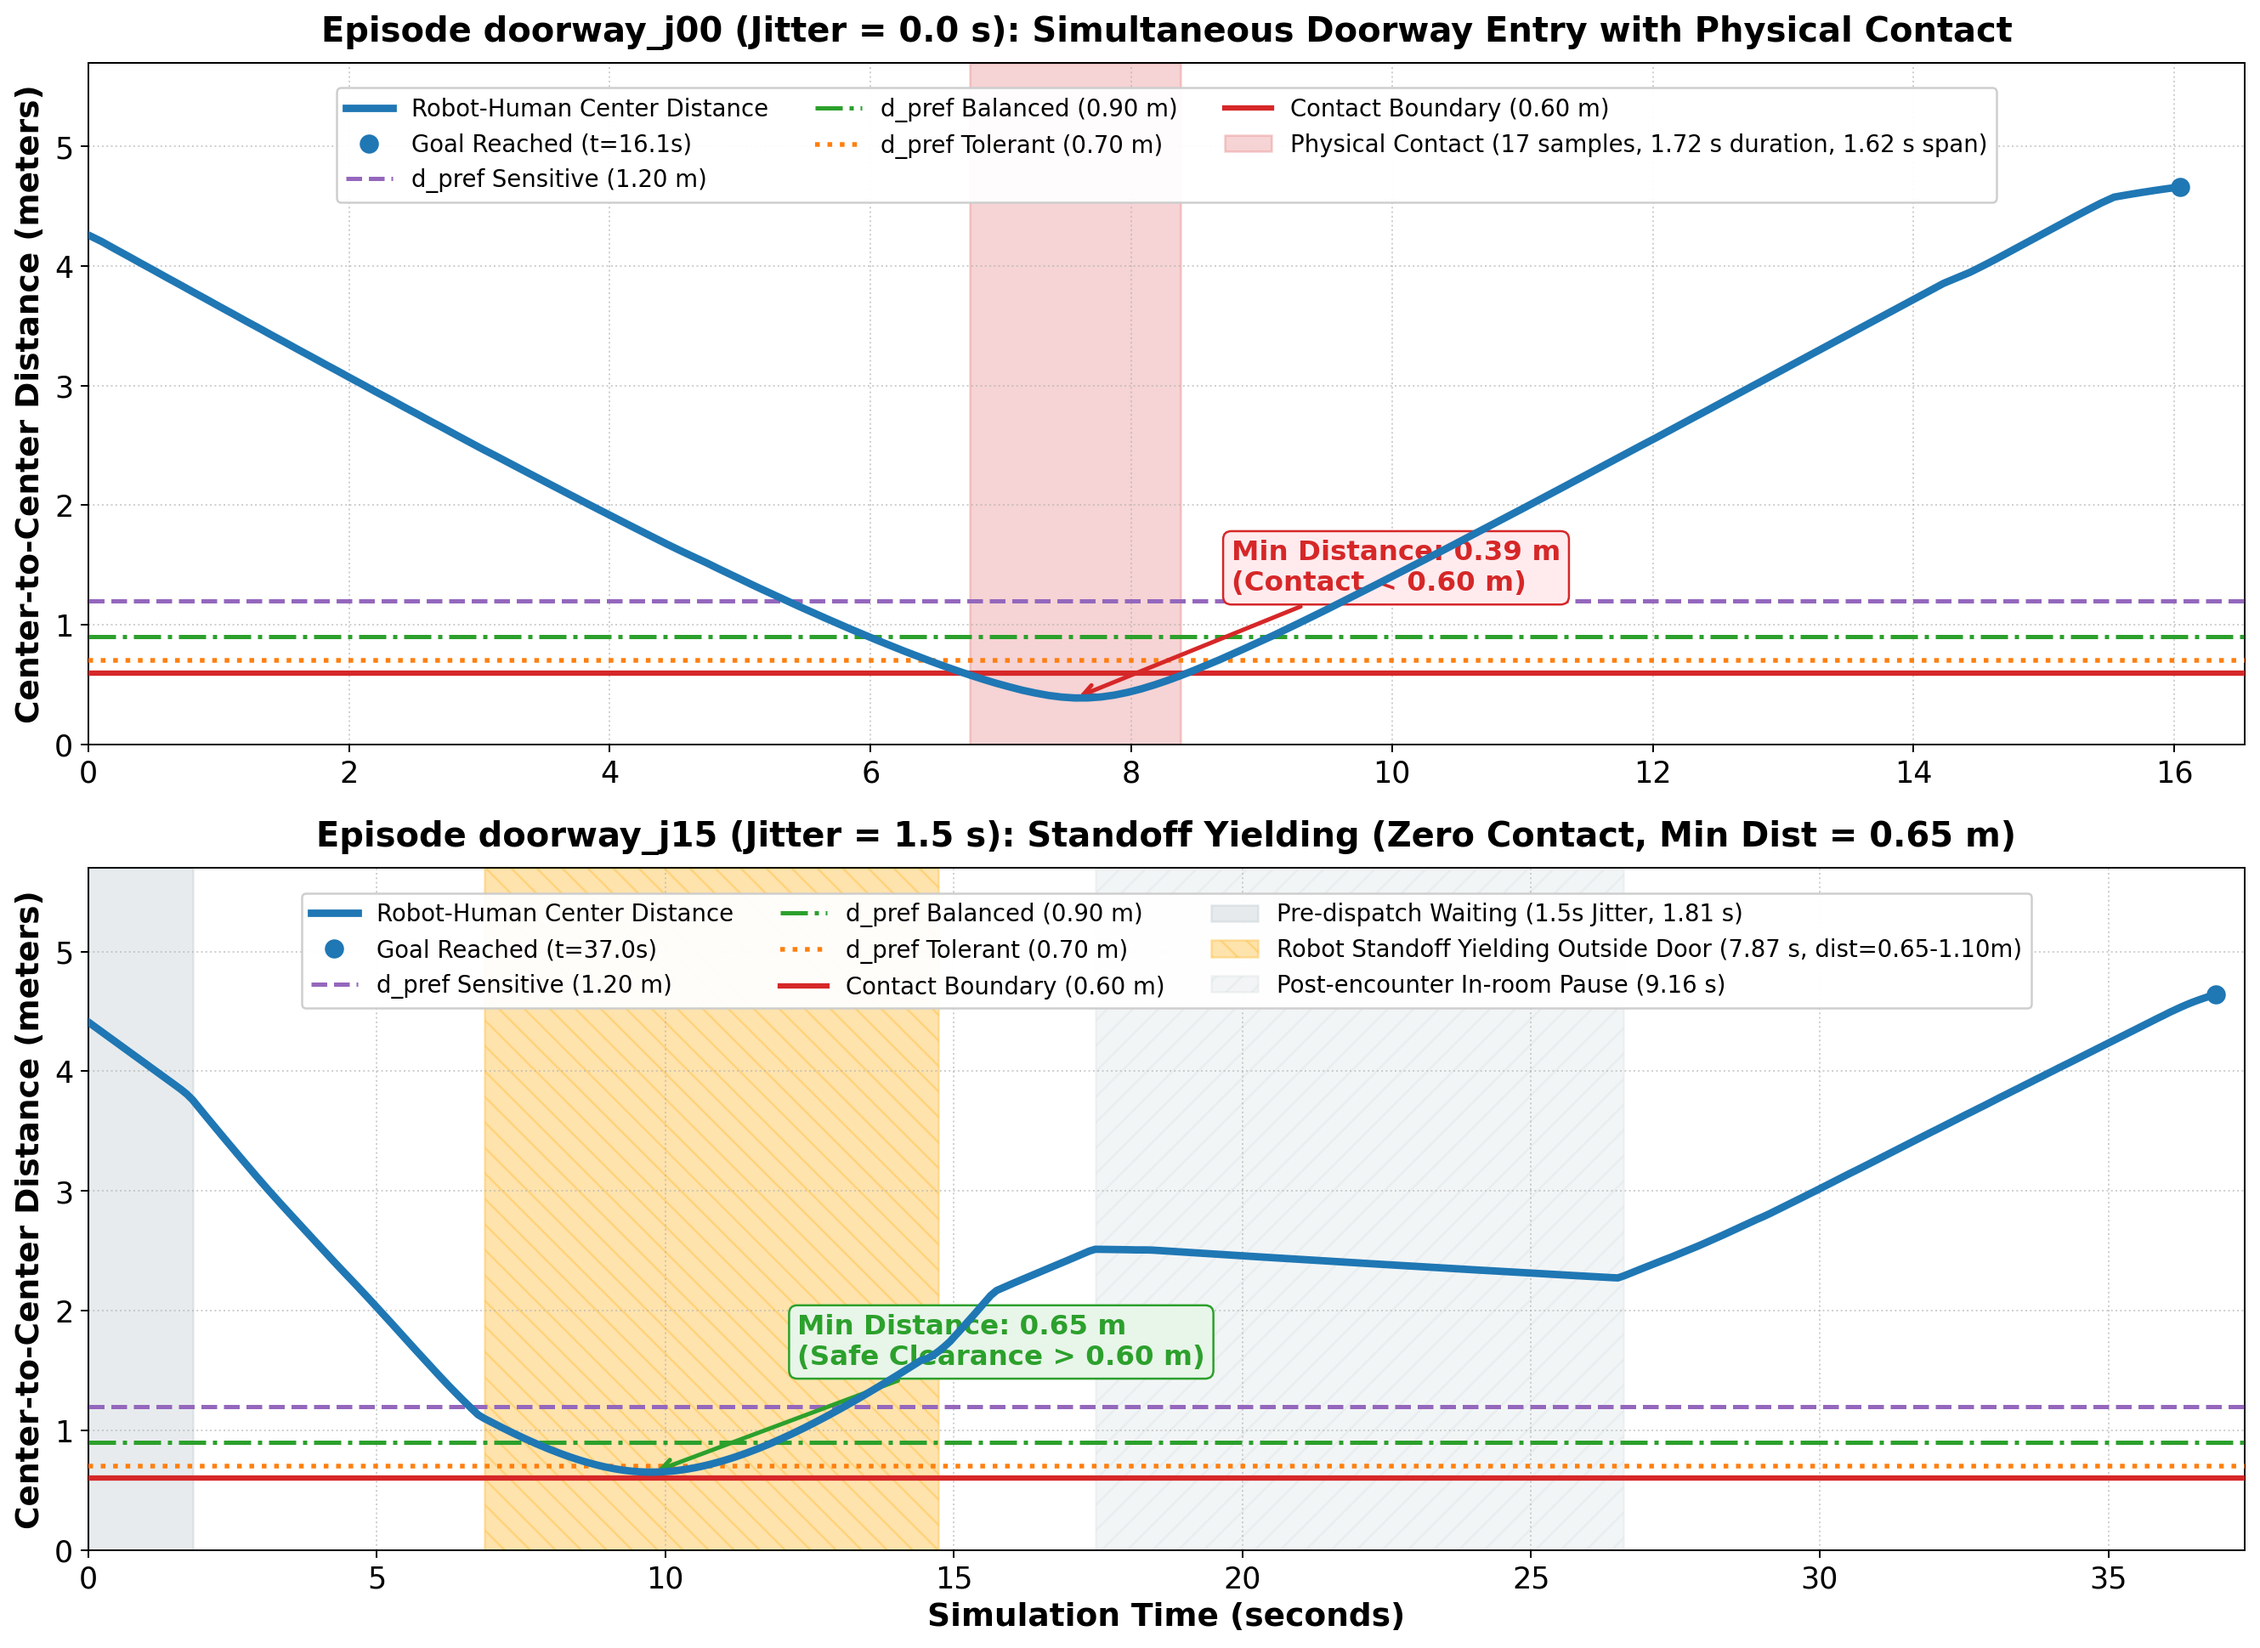
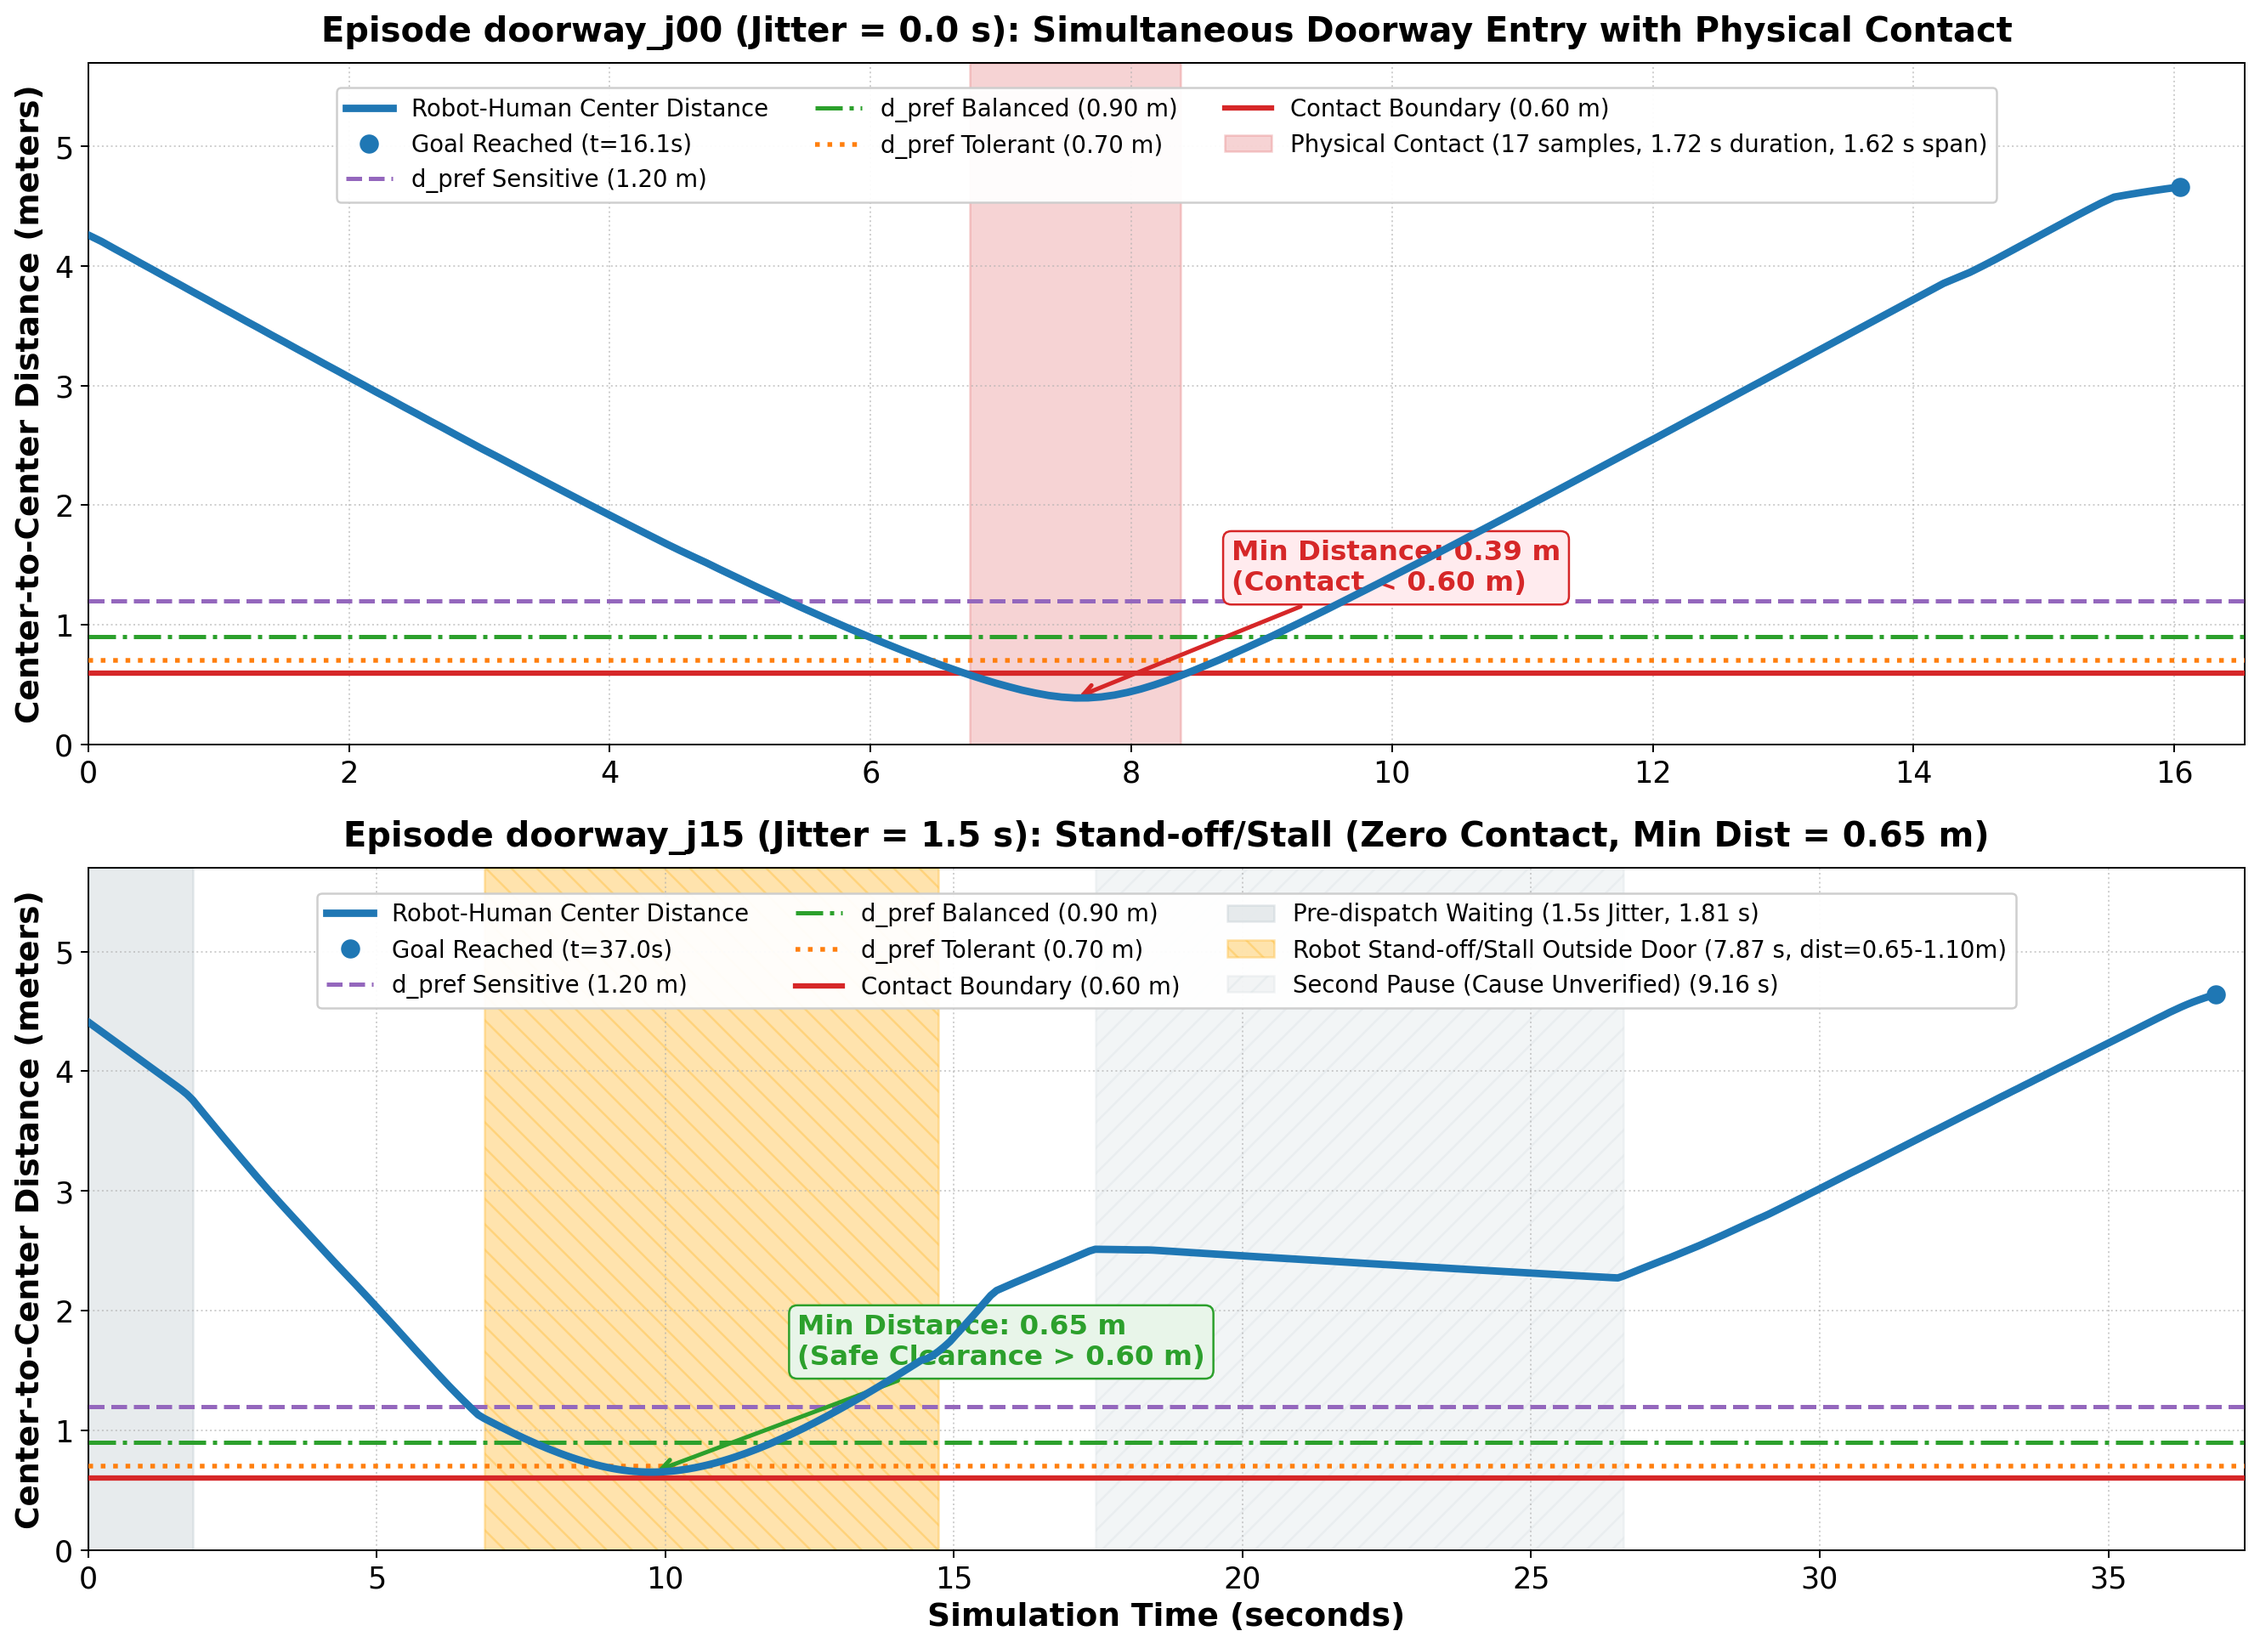
fix(presentation): relabel doorway_j15 to stand-off/stall, add second pause note, and add 10-episode timing query script

Changed region(s): [[0.1249, 0.4951, 0.9052, 0.6189]]

diff --git a/gazebo_workspace/query_timings.py b/gazebo_workspace/query_timings.py
@@ -1,0 +1,38 @@
+#!/usr/bin/env python3
+import os
+import json
+import math
+
+RES_DIR = '/home/thevindu/SocialGym2/gazebo_workspace/evaluation_results'
+scenarios = ['corridor', 'doorway']
+jitters = ['j00', 'j05', 'j10', 'j15', 'j20']
+
+print("=" * 95)
+print(f"{'Episode':<15} | {'Log Start (sim s)':<18} | {'Departure (sim s)':<18} | {'Rel Dep (s)':<12} | {'Human x (m)':<12} | {'Human y (m)':<12}")
+print("=" * 95)
+
+for sc in scenarios:
+    for jt in jitters:
+        ep_name = f"{sc}_{jt}"
+        fn = os.path.join(RES_DIR, f"trajectory_{sc}_robot_present_{ep_name}.json")
+        with open(fn) as fp:
+            d = json.load(fp)
+        samps = d['samples']
+        t_log_start = samps[0]['t']
+
+        dep_sample = None
+        for s in samps:
+            rvx, rvy = s['robot_vel']
+            if math.hypot(rvx, rvy) > 0.05:
+                dep_sample = s
+                break
+
+        if dep_sample is not None:
+            t_dep_sim = dep_sample['t']
+            t_dep_rel = t_dep_sim - t_log_start
+            hx = dep_sample['human_states']['agent1']['pos'][0]
+            hy = dep_sample['human_states']['agent1']['pos'][1]
+            print(f"{ep_name:<15} | {t_log_start:18.3f} | {t_dep_sim:18.3f} | {t_dep_rel:12.3f} | {hx:12.3f} | {hy:12.3f}")
+        else:
+            print(f"{ep_name:<15} | {t_log_start:18.3f} | {'N/A':<18} | {'N/A':<12} | {'N/A':<12} | {'N/A':<12}")
+print("=" * 95)

diff --git a/gazebo_workspace/generate_presentation_figures.py b/gazebo_workspace/generate_presentation_figures.py
@@ -187,15 +187,15 @@ def generate_figure_2b():
     ax2.axvspan(0.0, 1.81, color='#b0bec5', alpha=0.30,
                 label='Pre-dispatch Waiting (1.5s Jitter, 1.81 s)')
 
-    # 6.86 - 14.73s: True Standoff Yielding outside doorway
+    # 6.86 - 14.73s: Stand-off/Stall outside doorway
     ax2.axvspan(6.86, 14.73, color='#ffbb33', alpha=0.40, hatch='\\\\',
-                label='Robot Standoff Yielding Outside Door (7.87 s, dist=0.65-1.10m)')
+                label='Robot Stand-off/Stall Outside Door (7.87 s, dist=0.65-1.10m)')
 
-    # 17.45 - 26.60s: Post-encounter wait inside room / near goal
+    # 17.45 - 26.60s: Second pause (cause unverified)
     ax2.axvspan(17.45, 26.60, color='#cfd8dc', alpha=0.25, hatch='//',
-                label='Post-encounter In-room Pause (9.16 s)')
+                label='Second Pause (Cause Unverified) (9.16 s)')
 
-    ax2.set_title('Episode doorway_j15 (Jitter = 1.5 s): Standoff Yielding (Zero Contact, Min Dist = 0.65 m)',
+    ax2.set_title('Episode doorway_j15 (Jitter = 1.5 s): Stand-off/Stall (Zero Contact, Min Dist = 0.65 m)',
                   fontsize=16, fontweight='bold', pad=10)
     ax2.set_xlabel('Simulation Time (seconds)', fontsize=15, fontweight='bold')
     ax2.set_ylabel('Center-to-Center Distance (meters)', fontsize=15, fontweight='bold')

diff --git a/gazebo_workspace/evaluation_results/batch_evaluation_report.md b/gazebo_workspace/evaluation_results/batch_evaluation_report.md
@@ -34,19 +34,31 @@
   - Because trajectory logging begins after AMCL settling ($t \approx 1.7 - 2.2\text{ s}$ sim time), Sample 0 records the human after it has already traveled $\sim 0.8\text{ m}$:
     - `corridor_j00`: Sample 0 at $t = 2.20\text{ s}$, Human at **$(8.123, 0.000)$**, initial center-to-center distance $= 17.12\text{ m}$.
     - `corridor_j05` to `j20`: Human at $x = 8.252 - 8.350\text{ m}$, initial distance $= 17.25 - 17.35\text{ m}$.
-- **Actual Robot Departure Times ($v > 0.05\text{ m/s}$)**:
-  - **Corridor**: `j00` $\to 0.40\text{ s}$ ($+0.00\text{ s}$), `j05` $\to 0.80\text{ s}$ ($+0.40\text{ s}$), `j10` $\to 1.31\text{ s}$ ($+0.91\text{ s}$), `j15` $\to 1.71\text{ s}$ ($+1.31\text{ s}$), `j20` $\to 2.32\text{ s}$ ($+1.91\text{ s}$).
-  - **Doorway**: `j00` $\to 0.10\text{ s}$ ($+0.00\text{ s}$), `j05` $\to 0.50\text{ s}$ ($+0.40\text{ s}$), `j10` $\to 1.01\text{ s}$ ($+0.91\text{ s}$), `j15` $\to 1.81\text{ s}$ ($+1.71\text{ s}$), `j20` $\to 2.01\text{ s}$ ($+1.91\text{ s}$).
+
+### Complete Departure & Initial Position Timetable Across All 10 Episodes
+
+| Episode | Logging Start (Sim Time) | Robot Departure (Sim Time) | Relative Departure ($\Delta t$) | Human $x$ at Departure | Human $y$ at Departure |
+| :--- | :---: | :---: | :---: | :---: | :---: |
+| `corridor_j00` | 2.202 s | 2.603 s | +0.401 s | 7.943 m | 0.000 m |
+| `corridor_j05` | 1.917 s | 2.720 s | +0.803 s | 7.890 m | -0.000 m |
+| `corridor_j10` | 1.798 s | 3.107 s | +1.309 s | 7.716 m | -0.000 m |
+| `corridor_j15` | 1.772 s | 3.482 s | +1.710 s | 7.547 m | -0.000 m |
+| `corridor_j20` | 1.699 s | 4.014 s | +2.315 s | 7.308 m | -0.000 m |
+| `doorway_j00`  | 2.221 s | 2.321 s | +0.100 s | 3.000 m | -4.224 m |
+| `doorway_j05`  | 1.810 s | 2.313 s | +0.503 s | 3.000 m | -4.227 m |
+| `doorway_j10`  | 1.820 s | 2.825 s | +1.005 s | 3.001 m | -4.048 m |
+| `doorway_j15`  | 1.784 s | 3.595 s | +1.811 s | 3.001 m | -3.779 m |
+| `doorway_j20`  | 1.727 s | 3.740 s | +2.013 s | 3.001 m | -3.728 m |
 
 ### Empirical Analysis of Encounter Modes:
 1. **Doorway Phase Sensitivity & Two Outcome Modes**:
    - The doorway data exhibits **two distinct outcome modes**:
      - **Collision Mode** (`j00`, `j05`, `j10`, `j20`): Both agents enter the $1.0\text{ m}$ doorway simultaneously, resulting in physical contact ($d_{\text{min}} = 0.38 - 0.39\text{ m} < 0.60\text{ m}$, 17 contact samples, 1.72 s duration).
-     - **Standoff Yielding Mode** (`j15`): Robot departs at $t = 1.81\text{ s}$, reaches $(3.302, -1.114)$ outside the door at $t = 6.86\text{ s}$, and remains stationary ($v < 0.05\text{ m/s}$) for **7.87 s** (until $t = 14.73\text{ s}$) while the human exits through the door. Minimum distance is **$0.6497\text{ m} > 0.60\text{ m}$ (0 physical contacts)**.
-   - **Timing Sensitivity**: `doorway_j15` (departure $1.81\text{ s}$) and `doorway_j20` (departure $2.01\text{ s}$) are separated by only **0.20 s**, yet produce opposite outcomes (clean yield vs collision). This proves that the outcome is **critically sensitive to arrival timing**, rather than staggered dispatch monotonically producing yielding.
+     - **Stand-off/Stall Mode** (`j15`): Robot departs at sim time $3.595\text{ s}$ (relative $1.81\text{ s}$), reaches $(3.302, -1.114)$ outside the door at $t = 6.86\text{ s}$, and remains stationary ($v < 0.05\text{ m/s}$) in a **stand-off/stall for 7.87 s** (until $t = 14.73\text{ s}$) while the human exits through the door. Minimum distance is **$0.6497\text{ m} > 0.60\text{ m}$ (0 physical contacts)**. Later, from $t = 17.45\text{ s}$ to $26.60\text{ s}$, the robot experiences a **second pause (cause unverified)** lasting 9.16 s.
+   - **Timing Sensitivity**: `doorway_j15` (departure $1.81\text{ s}$) and `doorway_j20` (departure $2.01\text{ s}$) are separated by only **0.20 s**, yet produce opposite outcomes (stand-off/stall vs collision). This proves that the outcome is **critically sensitive to arrival timing**, rather than staggered dispatch monotonically producing avoidance.
 2. **Contact vs Comfort Divergence in Doorway**:
    - In `doorway_j15`, even though physical contact was completely eliminated (0 contacts, safe clearance $0.65\text{ m}$), the **proxemics violation time was HIGHER** (Sensitive: **6.46 s**, Balanced: **4.14 s**) than in the collision episodes (Sensitive: 4.24 s, Balanced: 3.03 s).
-   - This occurs because the robot stood stationary at $d \approx 0.65 - 1.10\text{ m}$ while yielding, remaining within the Sensitive ($1.20\text{ m}$) and Balanced ($0.90\text{ m}$) comfort zones for 7.87 s. Contact avoidance and proxemics comfort directly diverge.
+   - This occurs because the robot stood stationary at $d \approx 0.65 - 1.10\text{ m}$ during the stand-off/stall, remaining within the Sensitive ($1.20\text{ m}$) and Balanced ($0.90\text{ m}$) comfort zones for 7.87 s. Contact avoidance and proxemics comfort directly diverge.
 3. **Corridor Duration & Balanced Violation Margin**:
    - Total sim duration is $79.1\text{ s}$ in `j00` vs $94.2 - 103.7\text{ s}$ in `j05 - j20`. The 14–22 s differences correspond to stationary wait time.
    - **Root Cause**: The exact cause of the 14–22 s pauses in the batch runs `corridor_j05–j20` is **not verified** because raw runtime logs were not preserved for those episodes. In a subsequent test run (`rec_test_corridor`), captured logs from `/tmp/sim_launch_rec.log` showed Nav2 DWB trajectory rollout failures (`No valid trajectories out of 419! BaseObstacle/Trajectory Hits Obstacle`). Extending this explanation to `j05–j20` is an **unverified hypothesis**.
